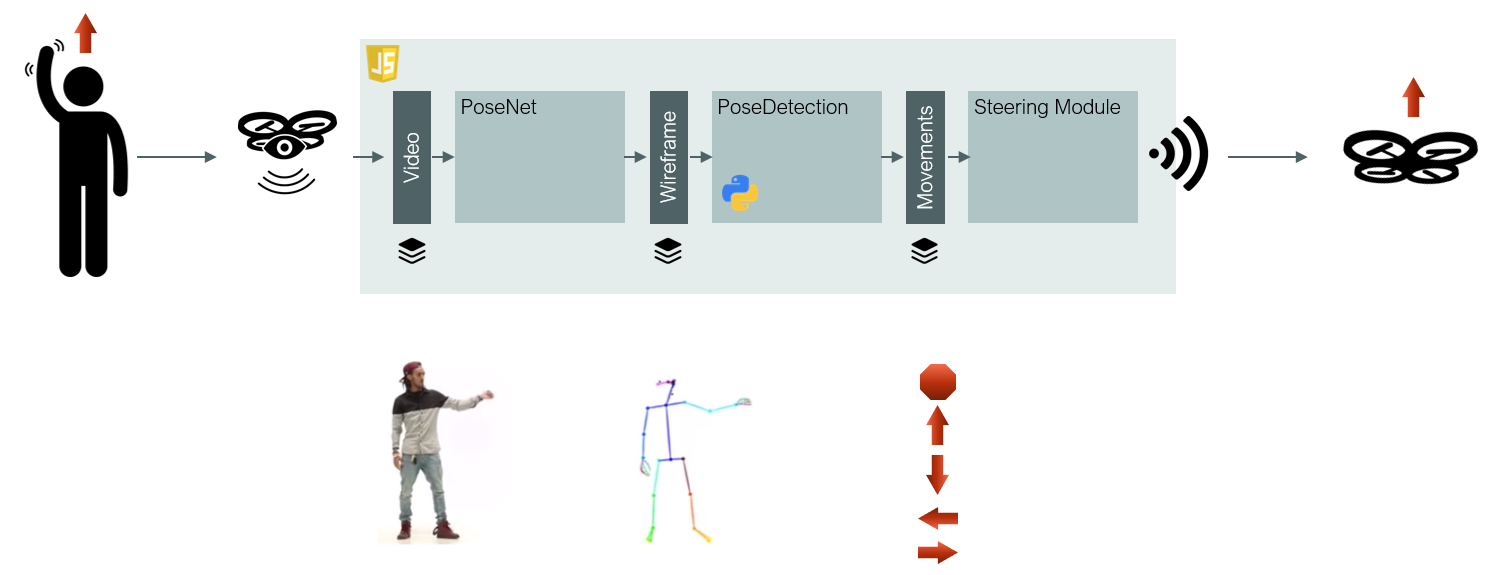
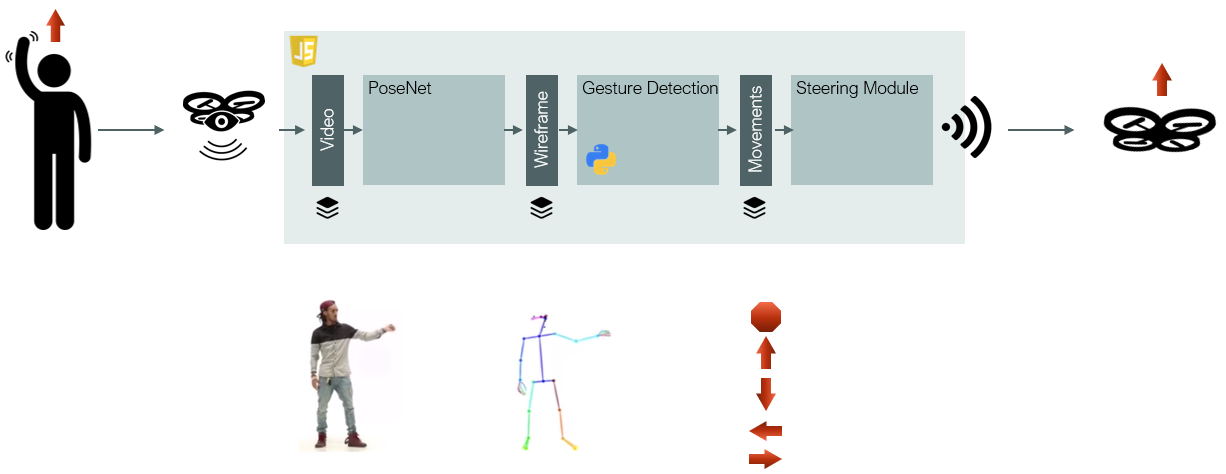
updated documentation

diff --git a/README.md b/README.md
@@ -6,38 +6,41 @@ We use the PoseNet model as the basis to steer a drone using gestures recorded b
 
 These gestures are currently only static poses, meaning once you move your hands in the right position we detect it and send the signal. In a next step we will add dynamic gestures, e.g. performing a loop with your hands will mean the drone will also make a loop.
 
-To support this, we will train a machine learning model on top of the PoseNet model. This will involve streaming input data and detecting the patterns to come up with the classification (e.g. loop, land or take picture).
-
-The architecture of the model looks as follows:
+To support this, we will train a machine learning model on top of the PoseNet model. This will involve streaming input data and detecting the patterns to come up with the classification (e.g. loop, land or take picture) and a steering module to transmit signals to a drone.
 
 ![Model architecture](https://drone-steering.azurewebsites.net/images/architecture.png)
 
+Let us look at the above modules a bit more in detail:
 * The webcam films the user and feeds the video signal to the PoseNet model. The PoseNet model outputs x/y coordinates of various body parts.
-* These x/y coordinates are the input into a GestureDetection model. This model translates the x/y coordinates (and patterns within these) into commands that can be understood by the drone.
+* These x/y coordinates are the input into a gesture detection model. This model translates the x/y coordinates (and patterns within these) into commands that can be understood by the drone.
 * The steering module then transmits the commands through wifi to the drone.
 
-We use pre-recorded videos with labels to generate training data. We then build and train the model in Python using Keras. Once trained, we embed this model in the JavaScript application (see [here](https://js.tensorflow.org/tutorials/import-saved-model.html) for how to do this).
+We use pre-recorded videos with labels to generate training data. We then build and train the model in Python using Keras. Once trained, we embed this model in a JavaScript application.
 
 ### Project Evolution
 In order to reduce delivery risk we divide our project in four stages and gradually add functionality (and thus complexity):
+
 ![Project evolution](https://drone-steering.azurewebsites.net/images/project_evolution.png)
 
-* In a first stage we get the PoseNet model running in a custom website and calculate simple postures directly from the x/y coordinates. We display the inferred movements on the website.
-* The second stage includes a Keras model embedded in the website. This model detects static postures (but no gestures yet - see next section for a discussion of postures vs. gestures). We train this model using webcam data enriched with manually added labels.
-* In the third stage we add the more complex gesture detection model; we also add a module to actually steer the drone instead of just showing the direction on the website.
+* In a first stage we get the PoseNet model running in a JavaScript application and calculate simple postures directly from the x/y coordinates. We display the inferred movements on the application.
+* The second stage includes a Keras model embedded in the application. This model detects static postures (but no gestures yet - see next section for a discussion of postures vs. gestures). We train this model using webcam data enriched with manually added labels.
+* In the third stage we add a more complex gesture detection model; we also add a module to actually steer the drone instead of just showing the direction in the application.
 * The fourth and last stage is the highlight - we now use the video feed from the drone camera instead of the webcam. This brings additional complexity as we need to ensure a proper angle of the camera and the signal is less stable.
 
 We are currently in the second stage, with the model already being embedded but not yet trained. In parallel we work on the third stage.
 
 ### Postures vs. Gestures
-**Postures:** A posture is one single static position. It is thus possible to derive the movement from a single picture. Modelling this is straight-forward. We train the model with single position data. Once trained, the model predicts a movement from a given position.
+**Postures:** A posture is one single static position. It is thus possible to derive the movement from a single picture. Modelling this is straight-forward as we can train the model with lots of individual position data. Once trained, the model predicts a movement from a given position.
 ![Posture model](https://drone-steering.azurewebsites.net/images/posture_model.png)
 **Gestures:** A gesture is a sequence of interconnected positions, e.g. a circle movement done with the hand. This allows for more complex movements. Compared to the posture model the gesture model now needs a group of positions including their sequence as input.
+
 ![Gesture model](https://drone-steering.azurewebsites.net/images/gesture_model.png)
 
-We are currently evaluating what the best way is to set up the gesture model. For simplicity we assume a maximum duration of two seconds for a gesture, with time steps of 0.05 seconds. Our initial idea was that the model input for a given point in time is an ordered set of 40 positions covering the last two seconds. The subsequent input would again be a set of 40 positions, with the oldest dropped and a new position added as the first. We thus 'outsource' the memory to the part where data is generated.
+We are currently evaluating the best approach for a gesture model. For simplicity we assume a maximum duration of two seconds for a gesture, with time steps of 0.05 seconds. Our initial idea is that the model input for a given point in time is an ordered set of 40 positions covering the last two seconds. The subsequent input would again be a set of 40 positions, with the oldest dropped and a new position added as the first. We thus 'outsource' the memory to the part where data is generated. Schematically, this looks as follows:
 
-An alternative appear to be Hidden Markov Models (HMM) or Long Short-Term Memory Models (LSTM), or a hybrid of HMM and Convolutional Neural Networks (CNN) or Recurrent Neural Networks (RNN). From a superficial reading all these support time-dependent pattern (and thus gesture) recognition.
+![Gesture model](https://drone-steering.azurewebsites.net/images/gesture_model_data.png)
+
+Alternatives appear to be Hidden Markov Models (HMM), Long Short-Term Memory Models (LSTM) or a hybrid of HMM and Convolutional Neural Networks (CNN) or Recurrent Neural Networks (RNN). From a superficial reading all these support time-dependent pattern (and thus gesture) recognition.
 
 
 ### Todos
